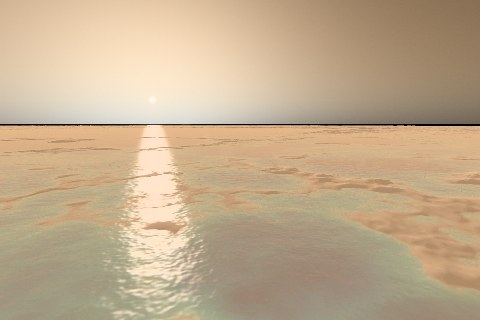
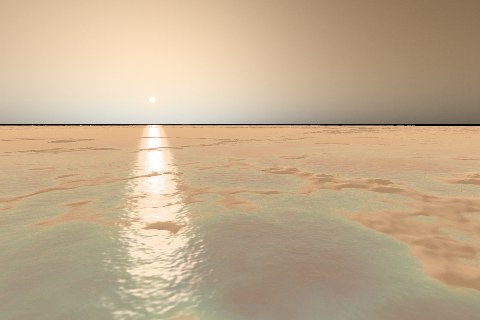
docs: ADR-0037 rolls the curve's top toward white, and far-shore's sun is a white disk
ADR-0037 states the neutral look's highlight rolloff beside the dusk
adaptation: the top 5% of the curve mixes a saturated light toward the
gray of its own luminance, which keeps hue angle and luminance and draws
the sun brighter than its aureole. The build log records what the review
pass fixed and what it left open. That includes the day's skylight ramp,
which still gives a quarter of the noon sky with the sun on the horizon
against a measured 400 lx, and so lights sunset snow pastel under the
opened exposure.

far-shore's plate moves 432 pixels for its sun, now a white disk over its
glow. The other twelve presets held within 200 pixels. tau-ceti-dusk's
3,047 are the dev toolbar in its committed reference, unchanged and not
accepted.

Changed region(s): [[0.2812, 0.375, 0.3438, 0.625]]

diff --git a/CONTEXT.md b/CONTEXT.md
@@ -12202,11 +12202,24 @@ the exposure was plainly adapting. Read `engine.exposure` instead. A gate run
 while the rig's Chrome was still drawing failed a test at 176 s and passed
 alone.
 
+**After review.** A `/code-review xhigh --fix` pass found an eye over a
+giant's pole reading as below the air, a dipped horizon opening 10.8 stops
+over a sunlit limb at 60 km, a setting disk's red clipping at 109,736 in the
+half-float target, and a one-stop snap on leaving the air. All four are
+fixed in `5b006db2`. The sun at sunset then still drew darker than its
+aureole, because the neutral curve scales a saturated light down to fit
+(0.55 against 0.79). The curve's top 5% now rolls toward white at the
+light's own hue (`e744ad68`), and every setting sun photographed since is a
+white disk in its glow.
+
 **Left open.** Noon over bright sand is a deep slate blue, at its physical
 ratio to the ground. A phone's photograph is brighter and bluer because it
 meters the scene, balances the sun to white and saturates — camera choices,
 and the default 6500 K balance draws the Sun at 1 : 0.88 : 0.82. Mars's day
-sky is dark until its columns are composition-aware (ADR-0056).
+sky is dark until its columns are composition-aware (ADR-0056). The ground's
+skylight above the horizon is the day's linear ramp, a quarter of the noon
+sky with the sun on the horizon against a measured 400 lx in 10 to 25 klx.
+Under the sunset exposure that lights high-albedo snow pastel pink.
 
 ## Known gaps
 

diff --git a/docs/adr/0037-the-enhanced-camera.md b/docs/adr/0037-the-enhanced-camera.md
@@ -95,6 +95,14 @@ galaxy, the three-percent night fill, the lens flare, and the near field's
 key, fill and ambient, alongside the integrated stars, which already
 carried the inverse.
 
+The neutral look keeps a light's hue through the whole curve, and over its
+top 5% it rolls a saturated light toward white rather than down. Mixing
+toward the gray of its own luminance, only as far as its brightest channel
+needs, keeps both the luminance and the hue angle. Scaled down instead, a
+2° sun drew darker than its own aureole (0.55 against 0.79), where a camera
+clips the disk to a pale core. A star's darkened limb, below that top 5%,
+keeps the color it is drawn with.
+
 Enhanced compresses diffuse sky luminance before the scene's half-float
 conversion. The owned sky target retains physical V-anchored radiance in
 nW m⁻² sr⁻¹; the composition reads that radiance and applies a presentation
